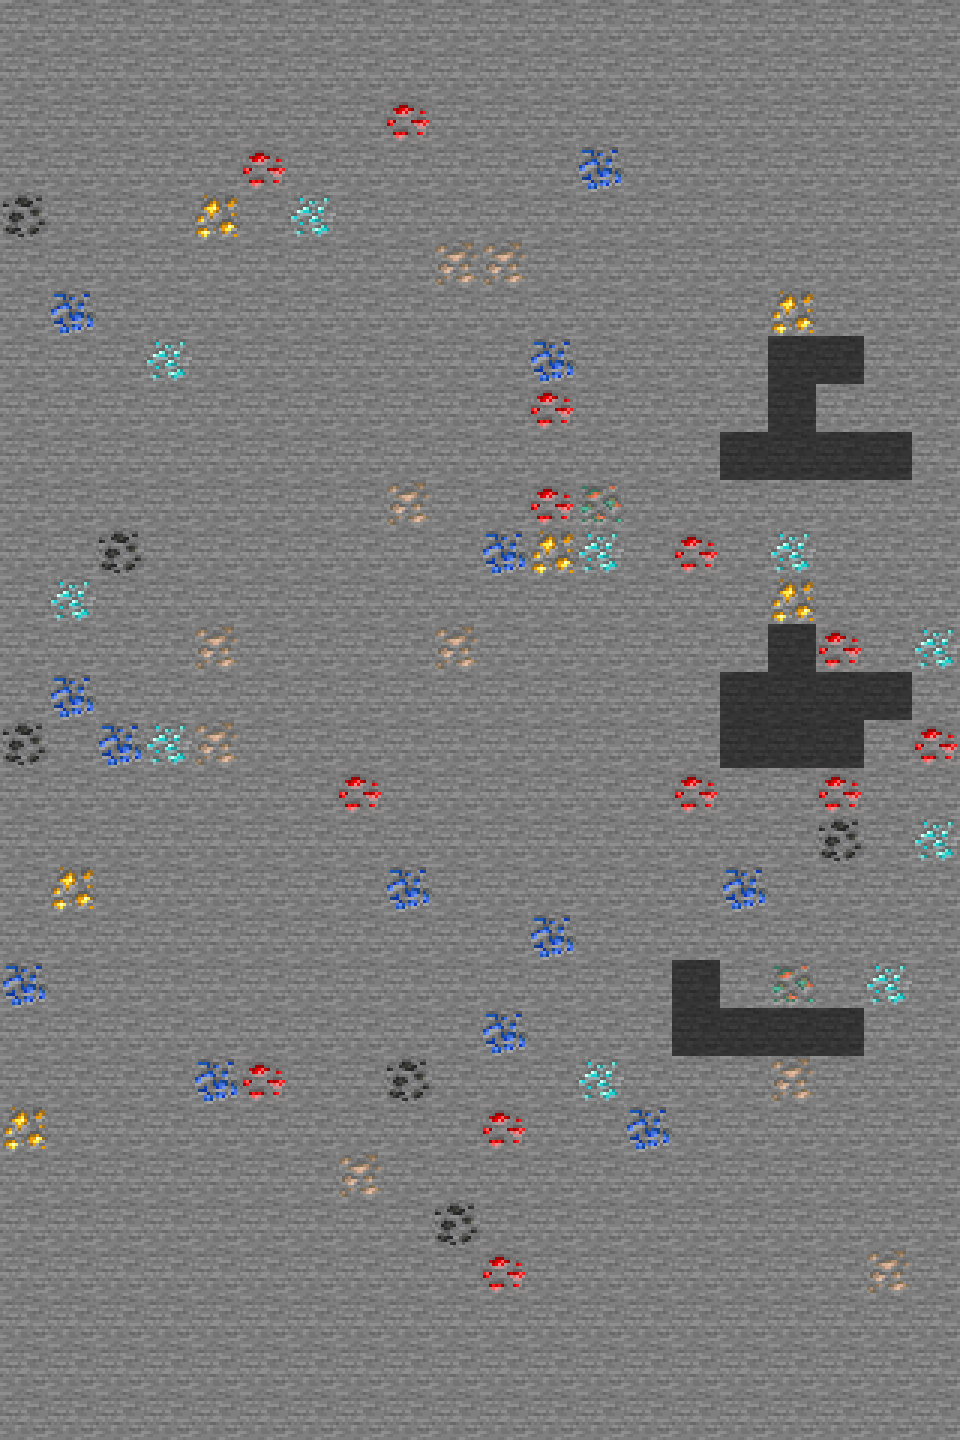
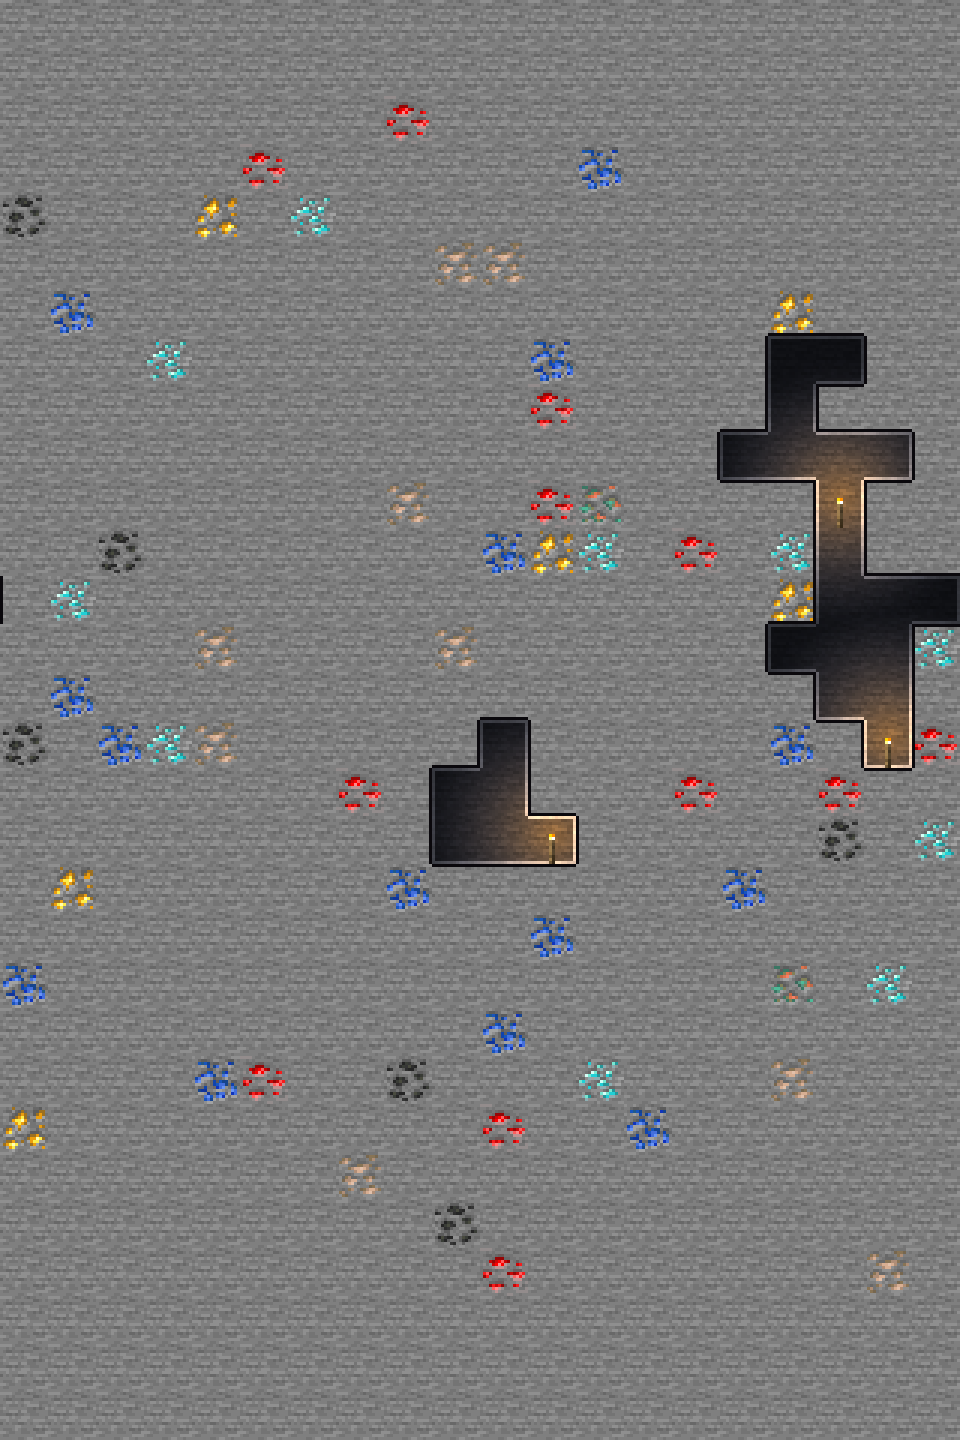
Wiki: caves get a dark outline, a lit lip and torches whose light fades into the cave

Changed region(s): [[0.75, 0.2188, 1.0, 0.5625], [0.4375, 0.5, 0.625, 0.625], [0.6875, 0.6562, 0.9062, 0.75]]

diff --git a/tools/wiki/build.py b/tools/wiki/build.py
@@ -307,6 +307,7 @@ def build_landscape(vanilla, img):
         for y in range(h):
             for x in range(W):
                 area[y, x] = stone_t[(y + y_off) % 16, x % 16]
+        plain = area.copy()
         for by in range(margin // 16, (h - bottom) // 16):
             f = depth0 + (depth1 - depth0) * (by * 16 / max(1, h))
             for bx in range(W // 16):
@@ -320,22 +321,50 @@ def build_landscape(vanilla, img):
                     if r_ <= 0:
                         break
                 area[by * 16:by * 16 + 16, bx * 16:bx * 16 + 16] = ore_tex[n]
-        # caves: clusters of whole blocks, each shaded like the dark back wall of a cave (grown by a random walk on the block grid)
-        cols, rows = W // 16, h // 16
+        # caves: clusters of whole blocks (grown by a random walk on the block grid), dark inside, outlined, and lit by torches
+        cols = W // 16
+        mask = np.zeros((h, W), bool)
+        torches = []
         for _ in range(caves):
             cell = (g.randrange(cols), g.randint((margin + 16) // 16, (h - bottom - 32) // 16))
             blocks = {cell}
-            for _s in range(g.randint(5, 12)):
+            for _s in range(g.randint(6, 13)):
                 bx, by = g.choice(sorted(blocks))
                 dx, dy = g.choice(((1, 0), (-1, 0), (1, 0), (-1, 0), (0, 1), (0, -1)))
                 nb = ((bx + dx) % cols, by + dy)
                 if (margin + 16) // 16 <= nb[1] < (h - bottom) // 16:
                     blocks.add(nb)
             for bx, by in blocks:
-                sl = (slice(by * 16, by * 16 + 16), slice(bx * 16, bx * 16 + 16))
-                dark = (stone_t[(np.arange(by * 16, by * 16 + 16) + y_off) % 16][:, np.arange(16)]).astype(np.float32)
-                dark[..., :3] = dark[..., :3] * 0.42
-                area[sl] = dark.astype(np.uint8)
+                mask[by * 16:by * 16 + 16, bx * 16:bx * 16 + 16] = True
+            floors = sorted(b for b in blocks if (b[0], b[1] + 1) not in blocks)
+            for bx, by in g.sample(floors, min(len(floors), g.choice((1, 1, 2)))):
+                torches.append((bx, by))
+        yy, xx = np.mgrid[0:h, 0:W]
+        light = np.zeros((h, W), np.float32)
+        for bx, by in torches:
+            tx, ty = bx * 16 + 8, by * 16 + 5
+            dx = np.minimum(np.abs(xx - tx), W - np.abs(xx - tx))
+            d = np.sqrt(dx ** 2 + (yy - ty) ** 2)
+            light = np.maximum(light, np.clip(1 - d / 46.0, 0, 1) ** 1.4)
+        cool, warm = np.array((0.75, 0.8, 1.0), np.float32), np.array((1.1, 0.78, 0.45), np.float32)
+        lt = light[..., None]
+        wall = plain[..., :3].astype(np.float32) * (0.16 + 0.95 * lt) * (cool * (1 - lt) + warm * lt)
+        def grow(m):  # a pixel next to the set, 4-neighbourhood (wrapping sideways)
+            o = m.copy()
+            o |= np.roll(m, 1, 1) | np.roll(m, -1, 1)
+            o[1:] |= m[:-1]
+            o[:-1] |= m[1:]
+            return o
+        ring = grow(mask) & ~mask                      # stone just outside the cave: the outline
+        rim = mask & grow(~mask)                       # cave pixels along the edge: the lit lip
+        area[..., :3][mask] = np.clip(wall[mask], 0, 255).astype(np.uint8)
+        area[..., :3][ring] = (10, 8, 12)
+        area[..., :3][rim] = np.clip(wall[rim] * 1.6 + 26 + 70 * light[rim][:, None], 0, 255).astype(np.uint8)
+        out_im = Image.fromarray(area, "RGBA")
+        torch_im = vanilla.texture("block/torch")
+        for bx, by in torches:
+            out_im.alpha_composite(torch_im, (bx * 16, by * 16))
+        area = np.array(out_im)
         return area
 
     stone = rock(H, 0.0, 1.0, 0, 14, margin=DIRT_END + 60)
